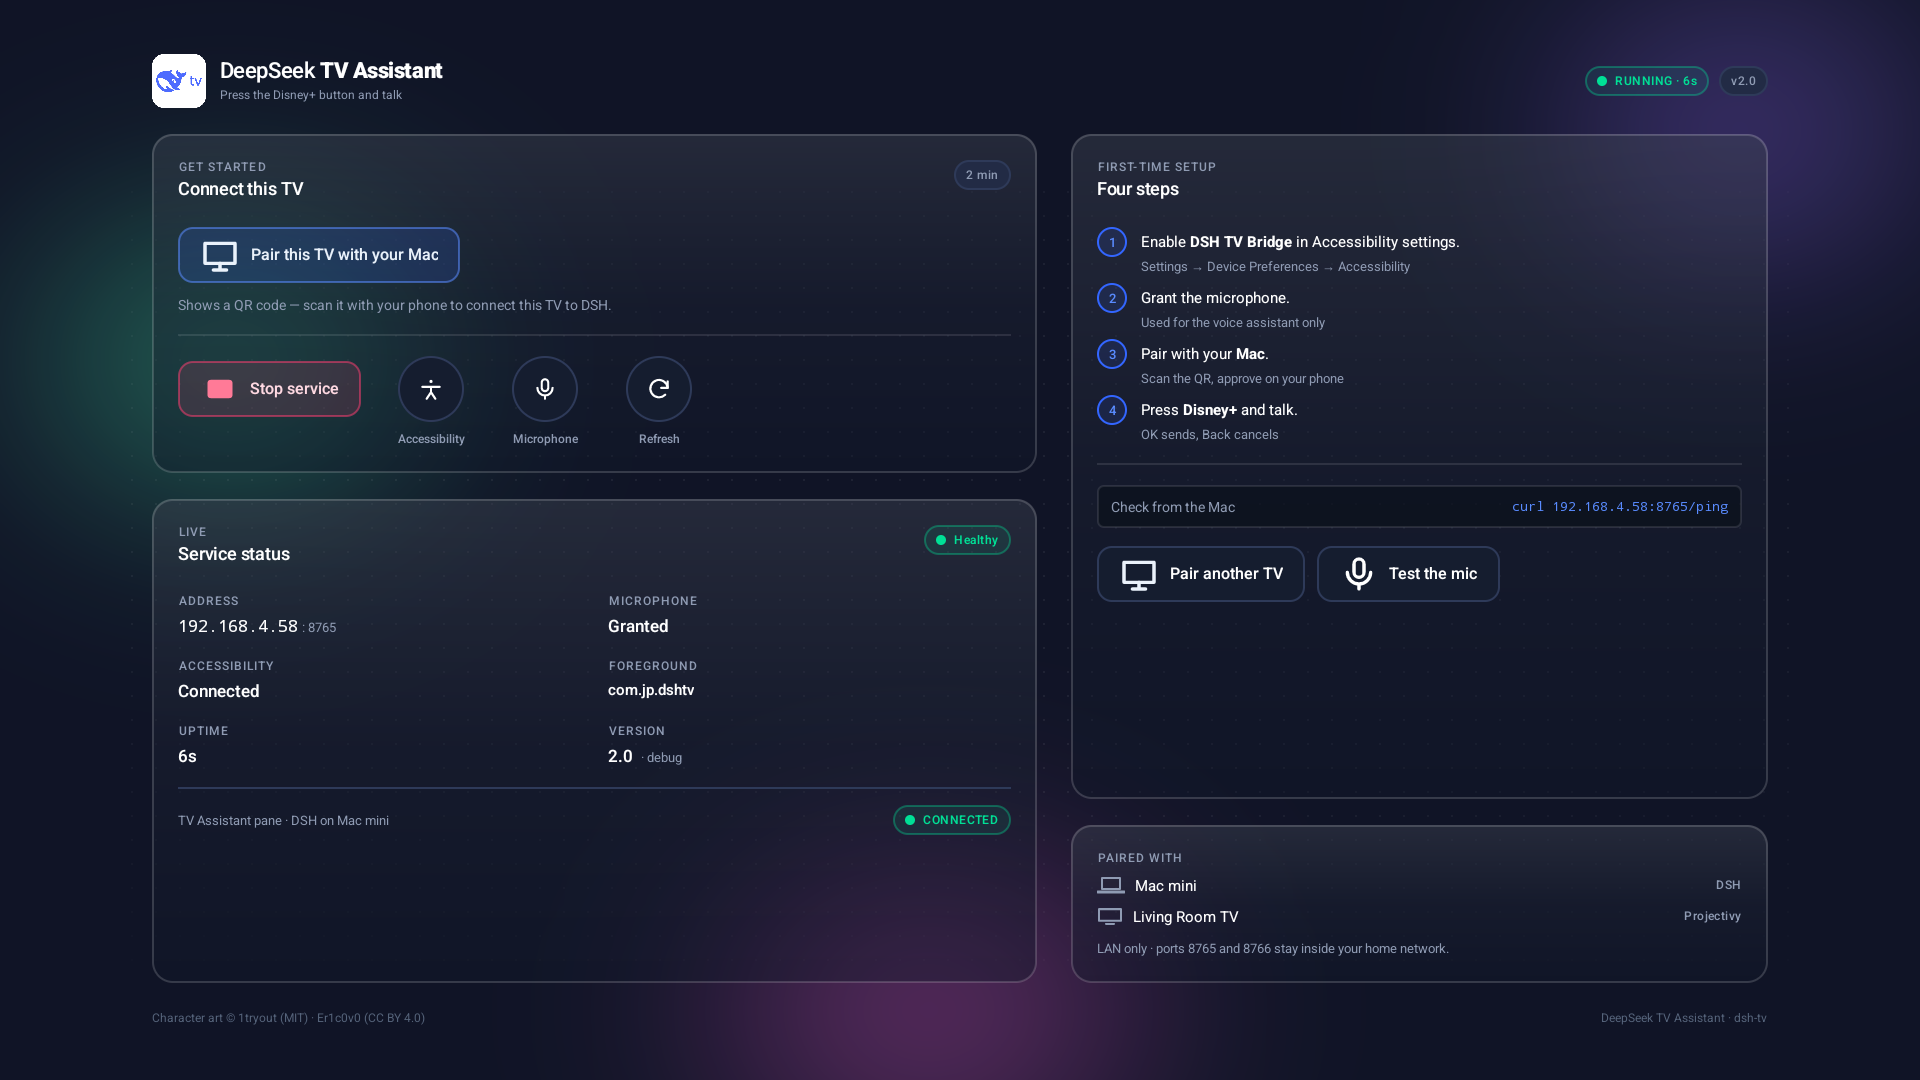
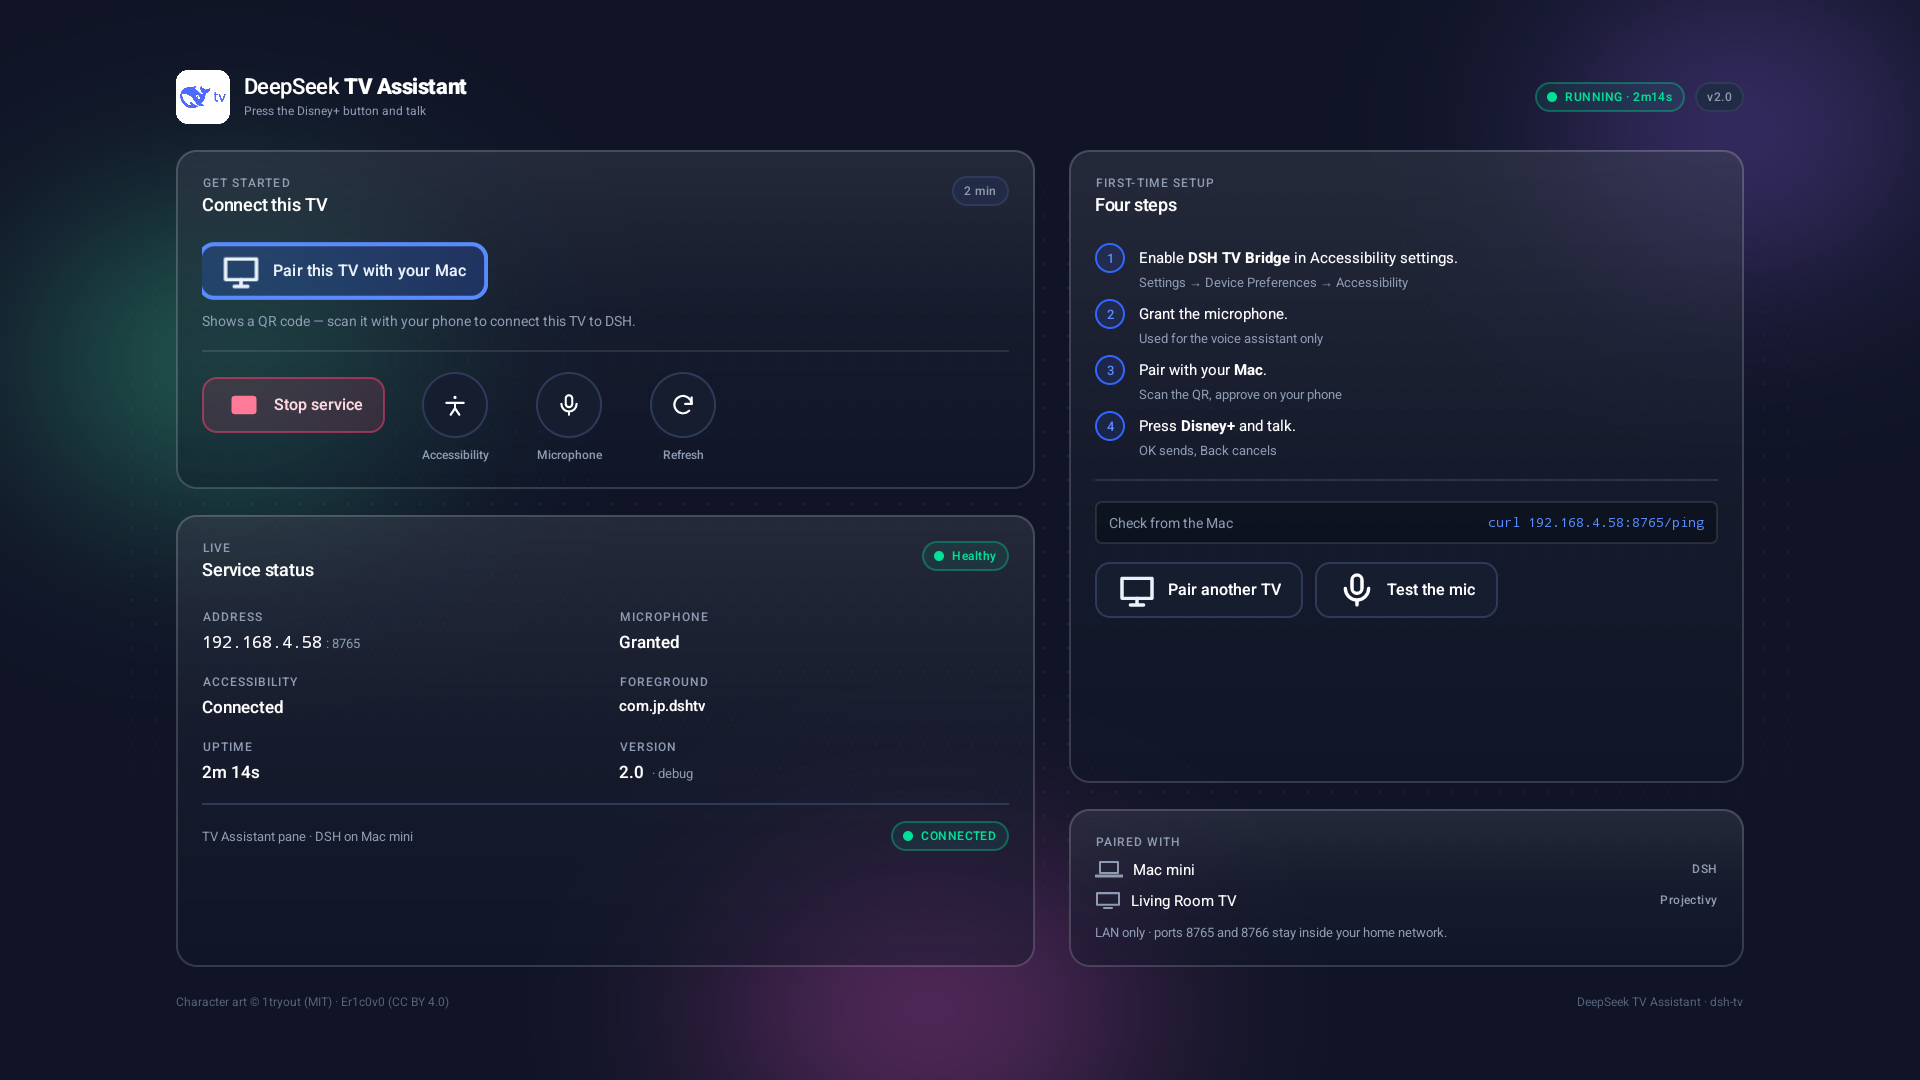
tv: green Start-service action, title-safe margins, per-device identity
User-reported fixes on the live boxes:
- The service toggle's stopped state was destructive red ("Start service"). It
  now uses its own success drawable + power glyph: green action when stopped,
  destructive "Stop service" when running, same 2dp focus ring in both.
- Content was clipped on the left on the projector. The 1920x1080 framebuffer
  is clean (corner pixel analysis), so the cause is display overscan: add
  title-safe insets on top of the design gutters (bridge +12dp h / +8dp v,
  pairing 32dp -> 56dp effective = 5.8%, +24dp vertical) and document the 5%
  title-safe rule in DESIGN.md. Leftmost bridge card edge moves 152px -> 176px.
- Device identity is no longer hardcoded design copy: DeviceInfo reads the
  Android TV device name (Settings.Global device_name, fallback Build.MODEL)
  for the pairing chip and the Bridge-home "Paired with" row, showing the model
  only when it differs from the name. Pro: "Living Room TV · onn. Streaming
  Device 4K pro · IP"; 4K Plus: "onn. 4K Plus Streaming · IP".

Demo on the second box (onn. 4K Plus Streaming, 192.168.5.205):
- APK installed in place (1.0 -> 2.0, data retained), paired with the Mac from
  the DSH pane, bridge running with accessibility enabled.
- K-drama recommendation + "FOR YOU" overlay verified on it; demo runner now
  follows DSHTV_CONFIG/DSHTV_ADB_SERIAL for its reveal intent (previously
  hardcoded to the Pro), and docs/DEMO.md explains how to target another TV and
[…]

diff --git a/android/tv-assistant/src/com/jp/dshtv/PairingActivity.java b/android/tv-assistant/src/com/jp/dshtv/PairingActivity.java
@@ -63,6 +63,9 @@ public class PairingActivity extends Activity {
     private TextView[] stepNums = new TextView[3];
     private TextView[] stepLabels = new TextView[3];
     private TextView ipChip;
+    private TextView deviceName;
+    private TextView deviceModel;
+    private View deviceSep;
 
     private String pairId;
     private boolean polling;
@@ -112,6 +115,9 @@ public class PairingActivity extends Activity {
         startButton = (Button) findViewById(R.id.pair_start);
         changeMac = findViewById(R.id.btn_change_mac);
         ipChip = (TextView) findViewById(R.id.pair_ip_chip);
+        deviceName = (TextView) findViewById(R.id.pair_device_name);
+        deviceModel = (TextView) findViewById(R.id.pair_device_model);
+        deviceSep = findViewById(R.id.pair_device_sep);
         stepNums[0] = (TextView) findViewById(R.id.pair_step1);
         stepNums[1] = (TextView) findViewById(R.id.pair_step2);
         stepNums[2] = (TextView) findViewById(R.id.pair_step3);
@@ -122,6 +128,7 @@ public class PairingActivity extends Activity {
         ipView.setText(WhaleConfig.host(this));
         ipView.clearFocus();
         showLocalIp();
+        showDeviceIdentity();
         styleFocus(startButton);
         styleFocus(changeMac);
 
@@ -158,6 +165,19 @@ public class PairingActivity extends Activity {
                 v.setElevation(hasFocus ? 8 * getResources().getDisplayMetrics().density : 0);
             }
         });
+    }
+
+    /** Chip label: "Living Room TV · onn. Streaming Device 4K pro · <ip>" on the
+     *  Pro, but just "onn. 4K Plus Streaming · <ip>" when the user-set name is
+     *  the model (the 4K Plus ships un-named). */
+    private void showDeviceIdentity() {
+        String tvName = DeviceInfo.name(this);
+        String tvModel = DeviceInfo.model();
+        boolean showModel = DeviceInfo.nameDiffersFromModel(this);
+        deviceName.setText(tvName);
+        deviceModel.setText(tvModel);
+        deviceModel.setVisibility(showModel ? View.VISIBLE : View.GONE);
+        deviceSep.setVisibility(showModel ? View.VISIBLE : View.GONE);
     }
 
     private void showLocalIp() {

diff --git a/host/demo_kdrama.py b/host/demo_kdrama.py
@@ -383,6 +383,29 @@ def play(title: str) -> dict:
     return {"ok": found, "state": dshtv("state")}
 
 
+def adb_target() -> tuple[str, str]:
+    """adb binary + serial for the TV the demo should drive.
+
+    Defaults to the dshtv bridge target (DSHTV_CONFIG / host/config.json), so
+    the demo follows whatever TV is configured - e.g. the onn. 4K Plus on a
+    different subnet. DSHTV_ADB_SERIAL / DSHTV_ADB override both.
+    """
+    adb = os.environ.get("DSHTV_ADB") or str(
+        ROOT.parent / ".tools" / "platform-tools" / "adb")
+    serial = os.environ.get("DSHTV_ADB_SERIAL", "").strip()
+    if not serial:
+        cfg_path = Path(os.environ.get(
+            "DSHTV_CONFIG", str(ROOT / "host" / "config.json")))
+        try:
+            cfg = json.loads(cfg_path.read_text())
+        except (OSError, ValueError):
+            cfg = {}
+        serial = str(cfg.get("serial") or "").strip()
+        if not serial and cfg.get("host"):
+            serial = f"{cfg['host']}:{cfg.get('port') or 5555}"
+    return adb, serial or "192.168.4.58:5555"
+
+
 def present(rec: dict) -> None:
     import shlex
     top3 = rec.get("top3") or []
@@ -392,11 +415,12 @@ def present(rec: dict) -> None:
             " · ".join(f"{i+1}. {t.get('title')}" for i, t in enumerate(top3[:3]))
     msg = (lines + ". Try " + pick + " — " + reason +
            " You have Stremio with Torrentio and yastream.")
-    adb = "/Volumes/External SSD/iptv/.tools/platform-tools/adb"
+    adb, serial = adb_target()
     shell = (f"am start -n com.jp.dshtv/.WhaleActivity --ez suggest true "
              f"--es suggest_title {shlex.quote(pick)} "
              f"--es suggest_reason {shlex.quote(msg)}")
-    subprocess.run([adb, "-s", "192.168.4.58:5555", "shell", shell],
+    print(f"reveal on {serial}", file=sys.stderr)
+    subprocess.run([adb, "-s", serial, "shell", shell],
                    capture_output=True, text=True)
 
 

diff --git a/android/tv-assistant/src/com/jp/dshtv/MainActivity.java b/android/tv-assistant/src/com/jp/dshtv/MainActivity.java
@@ -109,6 +109,11 @@ public class MainActivity extends Activity {
         valueForeground = (TextView) findViewById(R.id.value_foreground);
         valueUptime = (TextView) findViewById(R.id.value_uptime);
         codeCurl = (TextView) findViewById(R.id.code_curl);
+        // "Paired with" TV row: this device's actual name, not the mockup copy.
+        TextView pairedTvName = (TextView) findViewById(R.id.paired_tv_name);
+        if (pairedTvName != null) {
+            pairedTvName.setText(DeviceInfo.name(this));
+        }
 
         Button pair = (Button) findViewById(R.id.btn_pair);
         Button pairSecond = (Button) findViewById(R.id.btn_pair_second);
@@ -274,7 +279,22 @@ public class MainActivity extends Activity {
         statusBadge.setBackgroundResource(running
                 ? R.drawable.pill_success : R.drawable.pill_danger);
 
-        btnStop.setText(running ? "Stop service" : "Start service");
+        // Service toggle: green "Start service" while stopped, red "Stop service"
+        // while running. Background + text colour + icon all follow the state;
+        // both drawables carry the 2dp focus ring so focus stays obvious.
+        if (running) {
+            btnStop.setBackgroundResource(R.drawable.btn_danger);
+            btnStop.setText("Stop service");
+            btnStop.setTextColor(getColor(R.color.danger_text));
+            btnStop.setCompoundDrawablesRelativeWithIntrinsicBounds(
+                    R.drawable.ic_stop, 0, 0, 0);
+        } else {
+            btnStop.setBackgroundResource(R.drawable.btn_success);
+            btnStop.setText("Start service");
+            btnStop.setTextColor(getColor(R.color.success_text));
+            btnStop.setCompoundDrawablesRelativeWithIntrinsicBounds(
+                    R.drawable.ic_power, 0, 0, 0);
+        }
 
         String ip = primaryIp();
         String shownIp = ip.length() > 0 ? ip : "no IPv4";

diff --git a/android/tv-assistant/src/com/jp/dshtv/DeviceInfo.java b/android/tv-assistant/src/com/jp/dshtv/DeviceInfo.java
@@ -1,0 +1,48 @@
+package com.jp.dshtv;
+
+import android.content.Context;
+import android.provider.Settings;
+
+/**
+ * Friendly identity of this TV, used by the Bridge home "Paired with" row and
+ * the pairing screen's device chip. The design copy says "Living Room TV ·
+ * onn. 4K Pro", but the second box is an "onn. 4K Plus Streaming", so both
+ * labels now come from the device instead of the mockup.
+ */
+public final class DeviceInfo {
+
+    private DeviceInfo() {
+    }
+
+    /** User-set name (Settings.Global.device_name), else the model, else "Android TV". */
+    public static String name(Context ctx) {
+        String name = "";
+        try {
+            name = clean(Settings.Global.getString(ctx.getContentResolver(), "device_name"));
+        } catch (Throwable ignored) {
+        }
+        if (name.length() == 0) {
+            name = model();
+        }
+        if (name.length() == 0) {
+            name = "Android TV";
+        }
+        return name;
+    }
+
+    /** Build.MODEL, e.g. "onn. Streaming Device 4K pro". */
+    public static String model() {
+        return clean(android.os.Build.MODEL);
+    }
+
+    /** Show the model only when it adds information ("name · model"). */
+    public static boolean nameDiffersFromModel(Context ctx) {
+        String name = name(ctx);
+        String model = model();
+        return model.length() > 0 && !model.equalsIgnoreCase(name);
+    }
+
+    private static String clean(String value) {
+        return value == null ? "" : value.trim();
+    }
+}

diff --git a/DESIGN.md b/DESIGN.md
@@ -40,6 +40,19 @@ circle discs 66px → **33dp**, overlay composer 720×? px → **360dp**, focus 
 [`theme_eva.xml`](android/tv-assistant/res/values/theme_eva.xml) (`gutter`,
 `gap_col`, `radius_card`, `disc`, `bubble_width`, …).
 
+**Title-safe / overscan (5% rule):** the 1920×1080 framebuffer captures show
+nothing clipped, so the "content is cut off on the left" report is display
+overscan — projectors and some HDMI paths crop the outer few percent of the
+picture. Both full-screen surfaces therefore add a **safe inset on top of the
+design gutters**: `safe_inset` 12dp / `safe_inset_v` 8dp for Bridge home
+(`bridge_pad_h` 88dp = 76+12, `bridge_pad_v` 35dp = 27+8) and
+`pair_safe_inset` 24dp / `pair_safe_inset_v` 24dp for Pairing
+(`pairing_pad_h` 56dp = 32+24 = **5.8%** of the canvas width, 44/38dp
+vertical). Rule of thumb: any new full-screen surface keeps its content at
+least **5% of the 960dp width (48dp)** from every edge — title safe = 5%,
+action safe = 10% — or reuses these tokens. Measured on the Pro:
+leftmost card edge moved 152px → 176px (+12dp) after the change.
+
 Typography (mockup px / 2): **Hero** 29dp · **H1** 17dp bold · **H2**
 10.5dp medium (9dp inside cards) · **Body** 8dp · **Muted** 7dp / 6.75dp ·
 **Label** 5.75dp, tracked +0.09em · **Mono** 7dp (addresses, codes) ·
@@ -135,6 +148,15 @@ Order: brand → status card (state dot + address/mic/accessibility/foreground)
 → **Get started** (pairing primary, then service controls as secondary/outline)
 → first-time setup steps → LAN note. One primary action per screen.
 
+The service control is one state-coloured toggle (`MainActivity.refreshStatus`):
+**green** success-tinted "Start service" (power glyph) while the bridge is
+stopped, **red** destructive "Stop service" while it is running; both variants
+carry the same 2dp focus ring. Screenshots:
+[tv-bridge-home.png](docs/screenshots/tv-bridge-home.png) (running),
+[tv-bridge-home-stopped.png](docs/screenshots/tv-bridge-home-stopped.png)
+(green start action), [tv-bridge-home-4k-plus.png](docs/screenshots/tv-bridge-home-4k-plus.png)
+(updated 1.0→2.0 on the second box).
+
 ### 2. Pairing (`PairingActivity`)
 
 ![Pairing](docs/screenshots/tv-pairing.png)
@@ -142,7 +164,7 @@ Order: brand → status card (state dot + address/mic/accessibility/foreground)
 Brandbar (lockup + `LAN · same network` pill + `READY/SCANNING/WAITING/PAIRED/ERROR`
 badge), then a two-column hero. Left: **STEP 1** chip, 58px hero "Pair this TV
 with **DSH**", subline, 318px white QR plate beside the `PAIRING CODE`, device
-chip (Living Room TV · onn. 4K Pro · IP) and expiry countdown, the disabled
+chip (`● <device_name> · <Build.MODEL> · <IP>`) and expiry countdown, the disabled
 "Waiting for DSH approval…" primary with spinner, a dark **Use a different
 Mac**, the three-step tracker and the pairing-guide line. Right: the exported
 mockup device scene (`res/drawable-nodpi/pair_scene.png` — TV + laptop, glows,
@@ -223,8 +245,16 @@ so the scene stays honest about the launcher, the app row and the Whale-chan til
 - **Step chip + hero** — `STEP 1` chip, 58px/800 headline with exactly one
   emphasised word (`DSH`), one-sentence subline.
 - **QR block** — white plate (318px, quiet zone built in), pairing code in
-  tracked monospace (44px), device chip (`● Living Room TV · onn. 4K Pro ·
-  192.168.4.58`), expiry in warning amber.
+  tracked monospace (44px), device chip (`● <device_name> · <Build.MODEL> ·
+  <IP>`), expiry in warning amber.
+  The device identity is **read from the TV**, not the mockup copy:
+  `Settings.Global.device_name` (fallback `Build.MODEL`, then "Android TV") and
+  `Build.MODEL`; when the user never named the box the two are equal and only
+  one is shown. Observed on the two demo boxes: the Pro reads
+  "Living Room TV · onn. Streaming Device 4K pro · 192.168.4.58", the 4K Plus
+  reads "onn. 4K Plus Streaming · 192.168.5.205". The Bridge-home
+  “Paired with” TV row uses the same `device_name`
+  ([DeviceInfo.java](android/tv-assistant/src/com/jp/dshtv/DeviceInfo.java)).
 - **Actions** — the waiting state is a *disabled* primary with a spinner; the
   escape hatch (`Use a different Mac`) is outline. One primary per screen.
 - **Progress** — a three-step tracker under the actions: Scan → Approve in DSH →

diff --git a/docs/DEMO.md b/docs/DEMO.md
@@ -24,6 +24,30 @@ adb shell screenrecord --size 1280x720 --bit-rate 4000000 --time-limit 180 /sdca
 adb pull /sdcard/dsh-demo.mp4 docs/media/dsh-demo.mp4
 ```
 
+## Running the demo on the other TV (onn. 4K Plus)
+
+The bridge CLI follows `host/config.json` by default (the onn. 4K Pro, “Living
+Room TV”). To drive the second box — the **onn. 4K Plus Streaming** on
+`192.168.5.205`, different subnet, so it needs its own target — point
+`DSHTV_CONFIG` at a config for it; the reveal intent follows the same config:
+
+```bash
+cat > /tmp/plus-tv.json <<'JSON'
+{"host":"192.168.5.205","port":8765,"token":"","serial":"192.168.5.205:5555"}
+JSON
+DSHTV_CONFIG=/tmp/plus-tv.json python3 host/demo_kdrama.py --recommend --reveal
+```
+
+`DSHTV_ADB` / `DSHTV_ADB_SERIAL` override the adb binary and serial if the TV is
+not discoverable from the config. The TV has to be paired with the Mac (Settings
+→ Whale-chan TV in DSH, or the phone approval page) and its bridge running
+(green **Start service** on Bridge home) before key injection works.
+
+Latest run on the 4K Plus: recommendation + “FOR YOU” overlay worked
+([screenshot](screenshots/tv-demo-plus-reveal.png)); the `--play` leg still stops
+at the known search/catalog matcher gap (below) — recording:
+`docs/media/plus-demo.mp4`.
+
 ## Current status
 
 | Leg | Status |
@@ -31,8 +55,8 @@ adb pull /sdcard/dsh-demo.mp4 docs/media/dsh-demo.mp4
 | Research top 3 + reason | ✅ working (`host/demo_kdrama.py`) |
 | Recommendation overlay (“FOR YOU”, addons, watch question) | ✅ working |
 | Catalog-first scan of Stremio Home/Discover | ✅ rows visible via `ui`; matcher being hardened |
-| Search fallback | ⚠ addon rows can show “Search unavailable”; the search picker depends on addon health |
-| Open title + list streams | ✅ Torrentio 1080p sources appear |
+| Search fallback | ⚠ addon rows can show “Search unavailable”; the search picker depends on addon health. On the 4K Plus run, “The Remarried Empress” was not matched and Stremio ended up on another title’s stream list |
+| Open title + list streams | ✅ Torrentio/Comet sources appear (verified on the 4K Plus) |
 | Playback | ❌ first sources exit the player with “Ow! That stings!” — likely VPN/P2P/debrid or codec; needs stream-health selection |
 
 The next milestone is the playback leg: filter stream cards by addon + seeders,
